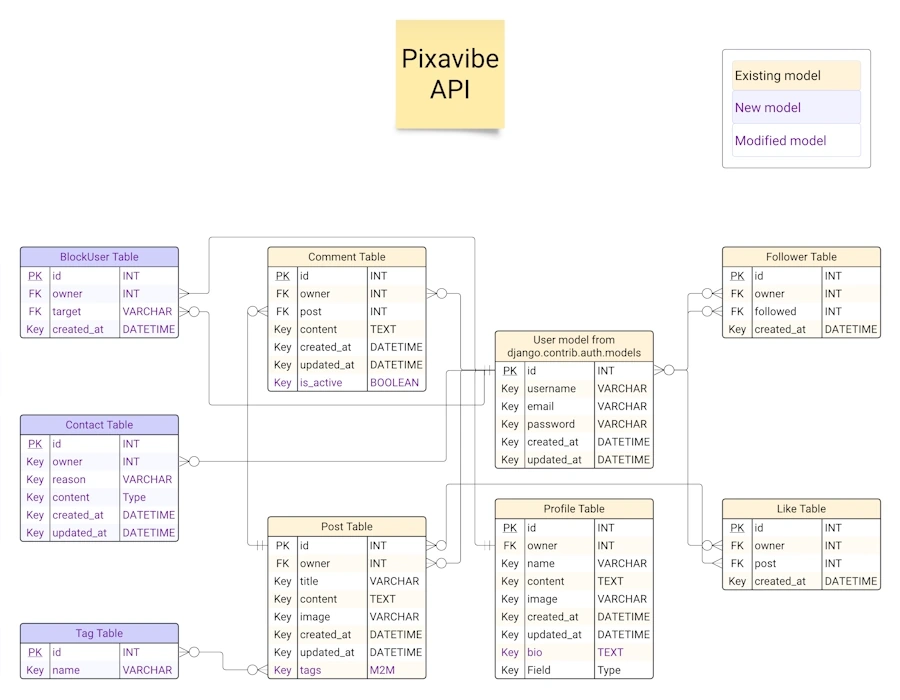
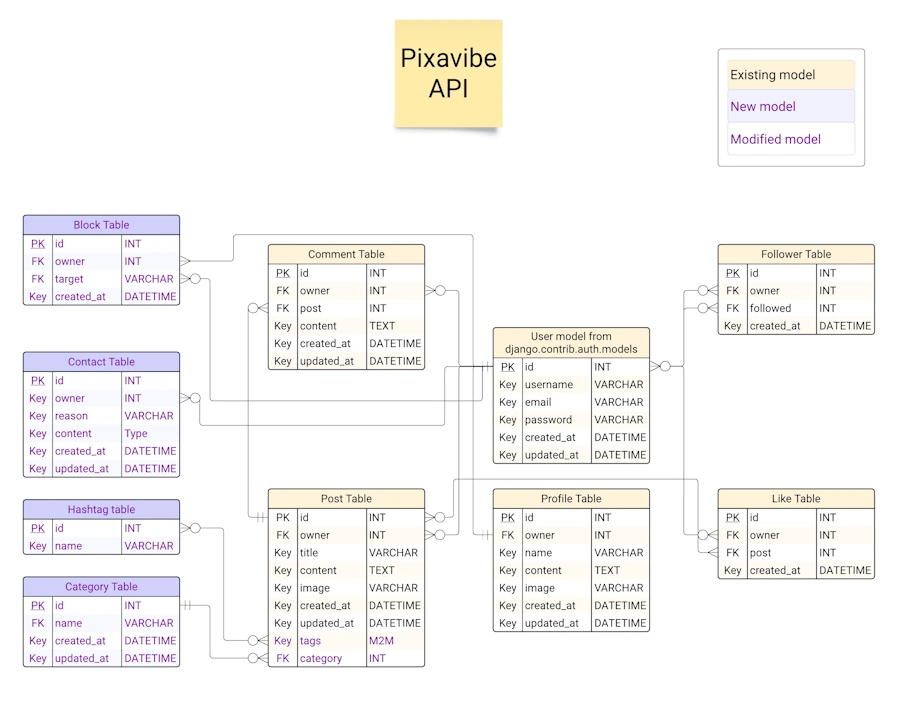
doc: Update readme

diff --git a/README.md b/README.md
@@ -13,7 +13,7 @@ The Pixavibe API serves as the backend service for the [Pixavibe Application](ht
 ## Table of Contents
 - [Pixavibe API](#pixavibe-api)
   - [General Details](#general-details)
-  - [Database model](#database-model)
+  - [Database and model](#database-and-model)
   - [Technologies](#technologies)
   - [Testing and Issues](#testing-and-issues)
   - [Deployment](#deployment)
@@ -27,11 +27,74 @@ This is the API for the Pixavibe backend application. Detailed information about
 
 - The [Pixavibe live site](https://pixavibe-frontend-e53fa907f215.herokuapp.com/)
 
-## Database model
+## Database and Model
 
 In the development environment, Pixavibe uses SQLite, which is simple to set up and ideal for development and testing. For the production environment, PostgreSQL is used due to its robustness, scalability, and advanced features suitable for handling a live web application.
 
-*<span style="color: blue;">[Back to Content](#table-of-contents)</span>*
+<details>
+<summary>Models in Pixavibe</summary>
+<br>
+
+### Block Model
+- **Fields**: `owner`, `target`, `created_at`
+- **Functionality**: Allows users to filter other users, hiding posts from blocked users. The model name is future-proofed to easily accommodate future improvements, such as preventing blocked users from seeing or interacting with the blocker.
+- **Impact**: Enhances user control over interactions, improving user experience by allowing them to avoid unwanted interactions.
+- **Example**: A user can hide another user who is spamming their posts, providing a safer and more enjoyable experience.
+
+### Category Model
+- **Fields**: `name`, `created_at`, `updated_at`
+- **Functionality**: Categorizes posts to enhance search and filter functionalities.
+- **Impact**: Improves content organization and discoverability, enhancing the user experience by allowing users to find relevant content more efficiently.
+- **Example**: Users interested in photography can filter posts by the 'Photography' category, allowing them to quickly find and engage with relevant content.
+
+### Contact Model
+- **Fields**: Manages user feedback and queries.
+- **Functionality**: Stores user queries, complaints, or suggestions. 
+- **Impact**: Provides a direct channel for user feedback, helping to improve the platform based on user input and enhancing user satisfaction.
+- **Example**: A user facing an issue with their account can easily send a message to the support team using the contact form, ensuring their query is logged and addressed promptly.
+
+### Hashtag Model
+- **Fields**: Basic structure includes a name field and a relationship to posts.
+- **Functionality**: Tags posts with hashtags for improved organization and search.
+- **Impact**: (Despite current issues) Aims to enhance content discoverability through tagging, making it easier for users to find related content.
+- **Current Issues**: Users can add hashtags, but there are issues with updating, deleting, and searching hashtags.
+
+### Comment Model
+- **Fields**: `id`, `owner`, `post_`, `content`, `created_at`, `updated_at`
+- **Functionality**: Stores comments made by users on posts.
+- **Impact**: Facilitates engagement and community interaction by allowing users to comment on each other's posts.
+- **Example**: Users comment on a friend's post to share their thoughts and reactions, fostering discussions.
+
+### Post Model
+- **Fields**: `id`, `owner`, `title`, `content`, `created_at`, `updated_at`, `hashtags`, `category`
+- **Functionality**: Stores posts created by users.
+- **Impact**: Central to the content-sharing functionality, allowing users to create and share posts with their followers.
+- **Example**: A user creates a new post with a photo from their recent trip and assigns it to the 'Travel' category.
+
+### Profile Model
+- **Fields**: `id`, `owner`, `name`, `content`, `image`, `created_at`, `updated_at`
+- **Functionality**: Stores user profile information.
+- **Impact**: Enhances user profiles by allowing customization, making the platform more personalized and engaging.
+- **Example**: A user uploads a profile picture and writes a short bio to make their profile more attractive to other users.
+
+### Follower Model
+- **Fields**: `id`, `owner`, `followed`, `created_at`, `updated_at`
+- **Functionality**: Stores follower relationships between users.
+- **Impact**: Enables users to follow each other, creating a personalized feed based on followed users' posts.
+- **Example**: User A follows User B to see User B's posts in their feed, fostering engagement and community building.
+
+### Like Model
+- **Fields**: `id`, `owner`, `post`, `created_at`, `updated_at`
+- **Functionality**: Stores likes on posts by users.
+- **Impact**: Provides a way for users to express appreciation for content, increasing user interaction and engagement.
+- **Example**: A user likes a friend's post, which may also increase the visibility of popular content through likes.
+
+### User Model (from django.contrib.auth.models)
+- **Fields**: `id`, `username`, `email`, `password`, `created_at`, `updated_at`
+- **Functionality**: Manages user authentication and basic information.
+- **Impact**: Provides essential authentication functionality, ensuring users can securely log in and access their accounts.
+- **Example**: Users can register, log in, and have their authentication details securely stored.
+</details>
 
 ### Data Modeling and Database Design
 
@@ -41,21 +104,12 @@ In the development environment, Pixavibe uses SQLite, which is simple to set up 
 
 The Entity-Relationship Diagram (ERD) provides a visual representation of the database's structure. It helps in planning and illustrating the SQL tables and the relationships between them. The ERD is an essential part of the database design that shows the entities, their attributes, and the types of relationships among the entities.
 
-REWORK!!   
-- Remove boolean is_active  from 
-- Rename Tag to HAshtag
-- Add category
-
-REWORK!!   
-- Remove boolean is_active  from 
-- Rename Tag to HAshtag
-- Add category
-
 ![erd](/documentation/readme-image/erd.webp)
 
 **Relationships**
 
-- User
+
+1. User
   - One-to-One: User.id → Profile.owner
   - One-to-Many: User.id → Post.owner
   - One-to-Many: User.id → Comment.owner
@@ -63,39 +117,43 @@ REWORK!!
   - Many-to-Many (through Follower): User.id → Follower.followed
   - Many-to-Many (through Like): User.id → Like.owner
   - One-to-Many: User.id → Contact.owner
-  - One-to-Many: User.id → BlockUser.owner
-  - One-to-Many: User.id → BlockUser.target
+  - One-to-Many: User.id → Block.owner
+  - One-to-Many: User.id → Block.target
 
-- Profile
+2. Profile
   - One-to-One: Profile.owner → User.id
 
-- Post
+3. Post
   - Many-to-One: Post.owner → User.id
   - One-to-Many: Post.id → Comment.post
   - Many-to-Many (through Like): Post.id → Like.post
-  - Many-to-Many: Post.id → Tag.posts
+  - Many-to-Many: Post.id → Hashtag.post
+  - Many-to-One: Post.category → Category.id
 
-- Comment
+4. Comment
   - Many-to-One: Comment.owner → User.id
   - Many-to-One: Comment.post → Post.id
 
-- Like
+5. Like
   - Many-to-One: Like.owner → User.id
   - Many-to-One: Like.post → Post.id
 
-- Follower
+6. Follower
   - Many-to-One: Follower.owner → User.id
   - Many-to-One: Follower.followed → User.id
 
-- Tag
-   - Many-to-Many: Tag.id → Post.tags
+7. Hashtag
+  - Many-to-Many: Hashtag.id → Post.hashtags
 
-- Contact
-   - Many-to-One: Contact.owner → User.id
+8. Contact
+  - Many-to-One: Contact.owner → User.id
 
-- BlockUser
-  - Many-to-One: BlockUser.owner → User.id
-  - Many-to-One: BlockUser.target → User.id
+9. Block
+  - Many-to-One: Block.owner → User.id
+  - Many-to-One: Block.target → User.id
+
+10. Category
+  - One-to-Many: Category.id → Post.category
 </details>
 
 ### Database Schema
